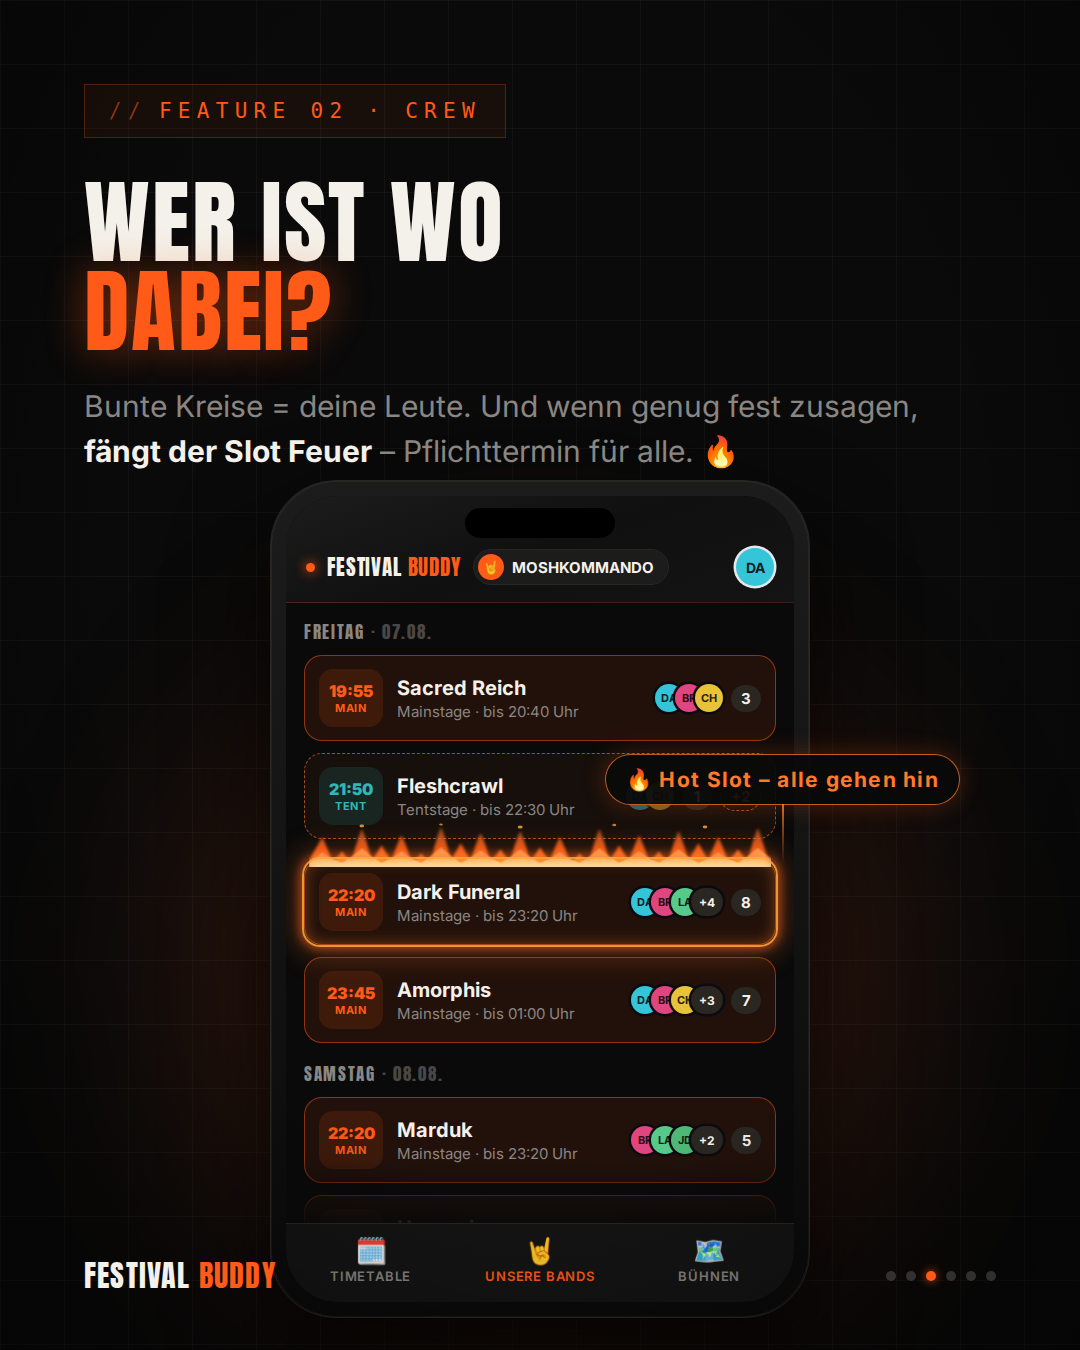
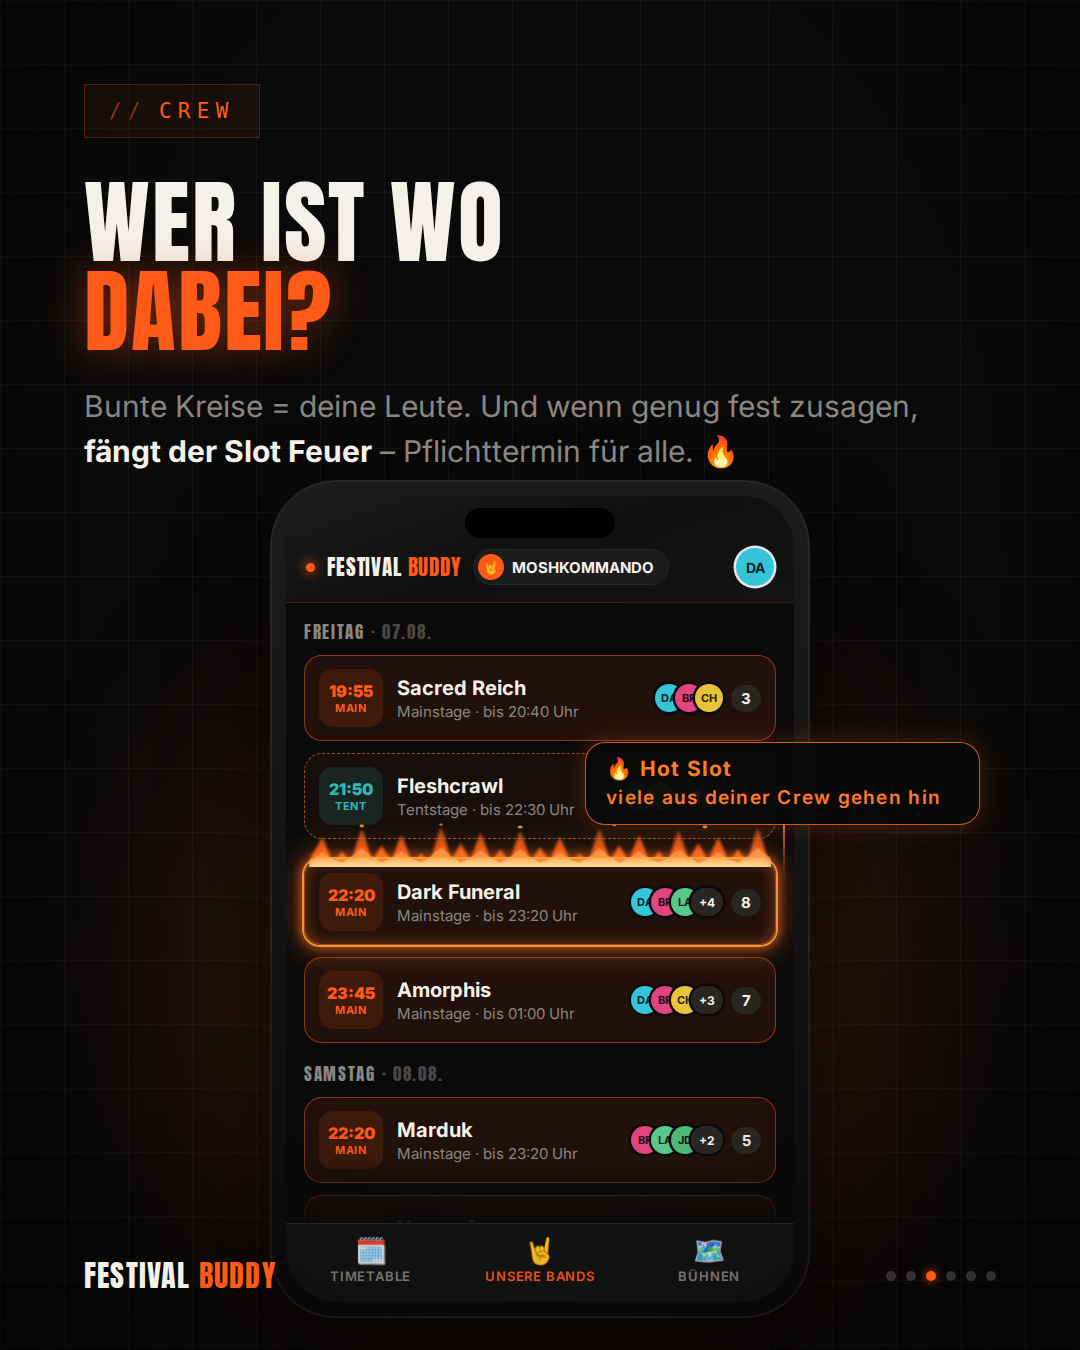
Party.San-Slides: Texte präzisiert, Homescreen/Push-Karte ergänzt
Callouts an den echten App-Flow angepasst: Antippen öffnet die Auswahl
„geh ich hin/interessiert" (statt „Ein Tap = eingetragen"), der Hot-Slot
heißt jetzt „viele aus deiner Crew gehen hin" (Schwelle ist einstellbar).
„Feature 0X ·"-Vorsatz aus den Badges entfernt, Schwarzes-Brett-Spruch
gestrichen. Slide 5 als 2×2-Raster mit neuer Karte „Ab aufs Homescreen"
(PWA-Installation + Push-Nachrichten).

Claude-Session: https://claude.ai/code/session_01LqDVWkAJcfSMQa3GPH9HTd

Changed region(s): [[0.55, 0.5289, 0.9167, 0.6222], [0.1528, 0.0622, 0.3056, 0.0933], [0.3667, 0.0622, 0.4583, 0.0933]]

diff --git a/docs/instagram/partysan/slides.html b/docs/instagram/partysan/slides.html
@@ -347,6 +347,11 @@
   .feat h3 { font-family: 'Anton', Impact, sans-serif; font-weight: 400; font-size: 40px; letter-spacing: 0.04em; text-transform: uppercase; color: var(--bone); }
   .feat p { margin-top: 12px; font-size: 26px; line-height: 1.45; color: var(--ash); }
   .feat p strong { color: var(--bone); font-weight: 700; }
+  .feat-grid { display: grid; grid-template-columns: 1fr 1fr; gap: 26px; margin-top: 52px; }
+  .feat.sm { flex-direction: column; gap: 22px; padding: 38px 40px; }
+  .feat.sm .ico { font-size: 52px; margin-top: 0; }
+  .feat.sm h3 { font-size: 33px; }
+  .feat.sm p { font-size: 24px; margin-top: 10px; }
 
   /* ---------- Schritte (Slide 6) ---------- */
   .step { display: flex; gap: 40px; align-items: flex-start; }
@@ -461,11 +466,12 @@
 <section class="slide" id="s2">
   <div class="glow-bg" style="width:700px;height:700px;left:190px;top:620px;"></div>
   <div class="inner">
-    <div class="badge mono"><span class="dim">//</span> Feature 01 · Timetable</div>
+    <div class="badge mono"><span class="dim">//</span> Timetable</div>
     <h1 style="font-size:92px;margin-top:40px;">Der komplette<br /><span class="accent">Timetable.</span></h1>
-    <p class="lede" style="margin-top:28px;max-width:880px;">
-      Alle Bühnen nebeneinander, alle Tage im Blick. <strong>Band antippen → du bist
-      eingetragen.</strong> Deine Crew sieht es sofort.
+    <p class="lede" style="margin-top:28px;max-width:920px;">
+      Alle Bühnen, alle Tage im Blick. Band antippen und wählen:
+      <strong>„geh ich hin" oder „interessiert"</strong> – deine Crew
+      sieht's sofort.
     </p>
   </div>
 
@@ -562,7 +568,7 @@
     </div>
   </div>
 
-  <div class="callout" style="left:200px;top:910px;--tail:18px;">Ein Tap = eingetragen</div>
+  <div class="callout" style="left:150px;top:908px;--tail:20px;">Antippen → hin oder interessiert</div>
 
   <div class="foot">
     <span class="wordmark metal">Festival <span>Buddy</span></span>
@@ -574,7 +580,7 @@
 <section class="slide" id="s3">
   <div class="glow-bg" style="width:700px;height:700px;left:190px;top:640px;"></div>
   <div class="inner">
-    <div class="badge mono"><span class="dim">//</span> Feature 02 · Crew</div>
+    <div class="badge mono"><span class="dim">//</span> Crew</div>
     <h1 style="font-size:92px;margin-top:40px;">Wer ist wo<br /><span class="accent">dabei?</span></h1>
     <p class="lede" style="margin-top:28px;max-width:880px;">
       Bunte Kreise = deine Leute. Und wenn genug fest zusagen,
@@ -694,7 +700,7 @@
     </div>
   </div>
 
-  <div class="callout" style="right:120px;top:754px;--tail:60px;">🔥 Hot Slot – alle gehen hin</div>
+  <div class="callout" style="right:100px;top:742px;--tail:56px;white-space:normal;display:block;width:395px;border-radius:20px;line-height:1.35;">🔥 Hot Slot<br /><span style="font-size:19px;font-weight:600;">viele aus deiner Crew gehen hin</span></div>
 
   <div class="foot">
     <span class="wordmark metal">Festival <span>Buddy</span></span>
@@ -706,7 +712,7 @@
 <section class="slide" id="s4">
   <div class="glow-bg" style="width:700px;height:700px;left:190px;top:640px;"></div>
   <div class="inner">
-    <div class="badge mono"><span class="dim">//</span> Feature 03 · Bühnenplan</div>
+    <div class="badge mono"><span class="dim">//</span> Bühnenplan</div>
     <h1 style="font-size:92px;margin-top:40px;">Finde deine Leute<br /><span class="accent">im Getümmel.</span></h1>
     <p class="lede" style="margin-top:28px;max-width:900px;">
       Vor der Show ein ✕ auf den Plan setzen: <strong>„Hier steh ich."</strong>
@@ -799,35 +805,43 @@
 <section class="slide" id="s5">
   <div class="glow-bg" style="width:640px;height:640px;left:220px;top:700px;"></div>
   <div class="inner">
-    <div class="badge mono"><span class="dim">//</span> Feature 04 · Festival-tauglich</div>
+    <div class="badge mono"><span class="dim">//</span> Festival-tauglich</div>
     <h1 style="font-size:92px;margin-top:40px;">Gebaut fürs<br /><span class="accent">Feld.</span></h1>
 
-    <div style="display:flex;flex-direction:column;gap:26px;margin-top:52px;">
-      <div class="feat">
+    <div class="feat-grid">
+      <div class="feat sm">
+        <div class="ico">📲</div>
+        <div>
+          <h3>Ab aufs Homescreen</h3>
+          <p>Webseite öffnen, <strong>„Zum Homescreen hinzufügen"</strong> –
+          liegt wie eine App auf dem Handy und schickt dir
+          Push-Nachrichten.</p>
+        </div>
+      </div>
+      <div class="feat sm">
         <div class="ico">🔔</div>
         <div>
           <h3>Weckruf vor der Band</h3>
-          <p>Band markiert? Kurz vor der Show brummt das Handy:
-          <strong>„startet gleich!"</strong> Wer noch am Camp hängt,
-          wird sogar früher erinnert – die App denkt den Fußweg mit.</p>
+          <p>Deine markierten Bands melden sich: Kurz vor Showbeginn
+          <strong>brummt das Handy</strong> – vom Camp aus sogar mit
+          extra Vorlauf.</p>
         </div>
       </div>
-      <div class="feat">
+      <div class="feat sm">
         <div class="ico">📴</div>
         <div>
           <h3>Läuft auch im Funkloch</h3>
-          <p>Einmal geladen, läuft alles offline weiter – mitten auf dem
-          Acker. Deine Eintragungen syncen <strong>automatisch</strong>,
-          sobald wieder Netz da ist.</p>
+          <p>Einmal geladen, läuft alles offline weiter. Eintragungen
+          syncen <strong>automatisch</strong>, sobald wieder Netz
+          da ist.</p>
         </div>
       </div>
-      <div class="feat">
+      <div class="feat sm">
         <div class="ico">📣</div>
         <div>
           <h3>Durchsagen vom Festival</h3>
-          <p>Timetable-Änderungen und News landen als
-          <strong>Mitteilung direkt in der App</strong> – statt am
-          schwarzen Brett neben dem Dixi.</p>
+          <p>Timetable-Änderungen und News vom Veranstalter landen als
+          <strong>Mitteilung direkt in der App</strong>.</p>
         </div>
       </div>
     </div>
